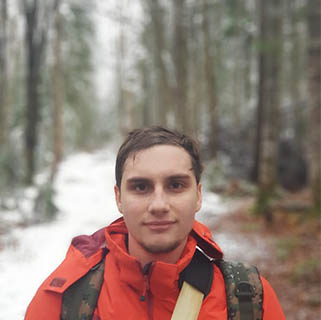
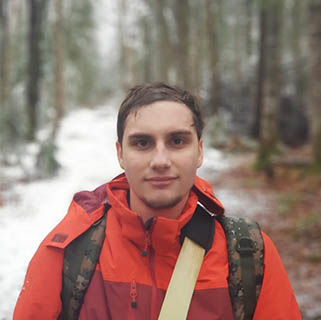
Mise à jour photo et début utilisation laravel-echo et socket.io

diff --git a/resources/js/bootstrap.ts b/resources/js/bootstrap.ts
@@ -32,14 +32,11 @@ if (token) {
  * allows your team to easily build robust real-time web applications.
  */
 
-import Echo from "laravel-echo";
+import * as Echo from "laravel-echo"
 
 (<any>window).io = require('socket.io-client');
 
-// @ts-ignore
-if (typeof io !== "undefined") {
-    (<any>window).Echo = new Echo ({
-        broadcaster: 'socket.io',
-        host: 'exosuite-laravel-echo-server:'
-    });
-}
+(<any>window).Echo = new Echo({
+    broadcaster: 'socket.io',
+    host: process.env.MIX_API_DOMAIN + ':6001'
+});

diff --git a/resources/css/style.css b/resources/css/style.css
@@ -1076,7 +1076,6 @@ ul.social li a::before, ul.social li a::after{
 .navbar-nav > li > .dropdown-menu li a {
 	color: #fff;
 	border-bottom: none !important;
-	text-transform: capitalize;
 	display: block;
 	font-size: 12px;
     font-weight: 600;

diff --git a/resources/views/welcome.blade.php b/resources/views/welcome.blade.php
@@ -17,7 +17,7 @@
                     <div class="center-item">
                         <!--Video Button-->
                         <div class="wow zoomIn">
-                            <a href="https://youtu.be/cwHGS7kPU2I"
+                            <a href="https://www.youtube.com/watch?v=DyqO-cFNJco"
                                class="video-btn html5lightbox"><i class="fa fa-play"></i></a>
                         </div>
                         <div class="wow fadeInUp">
